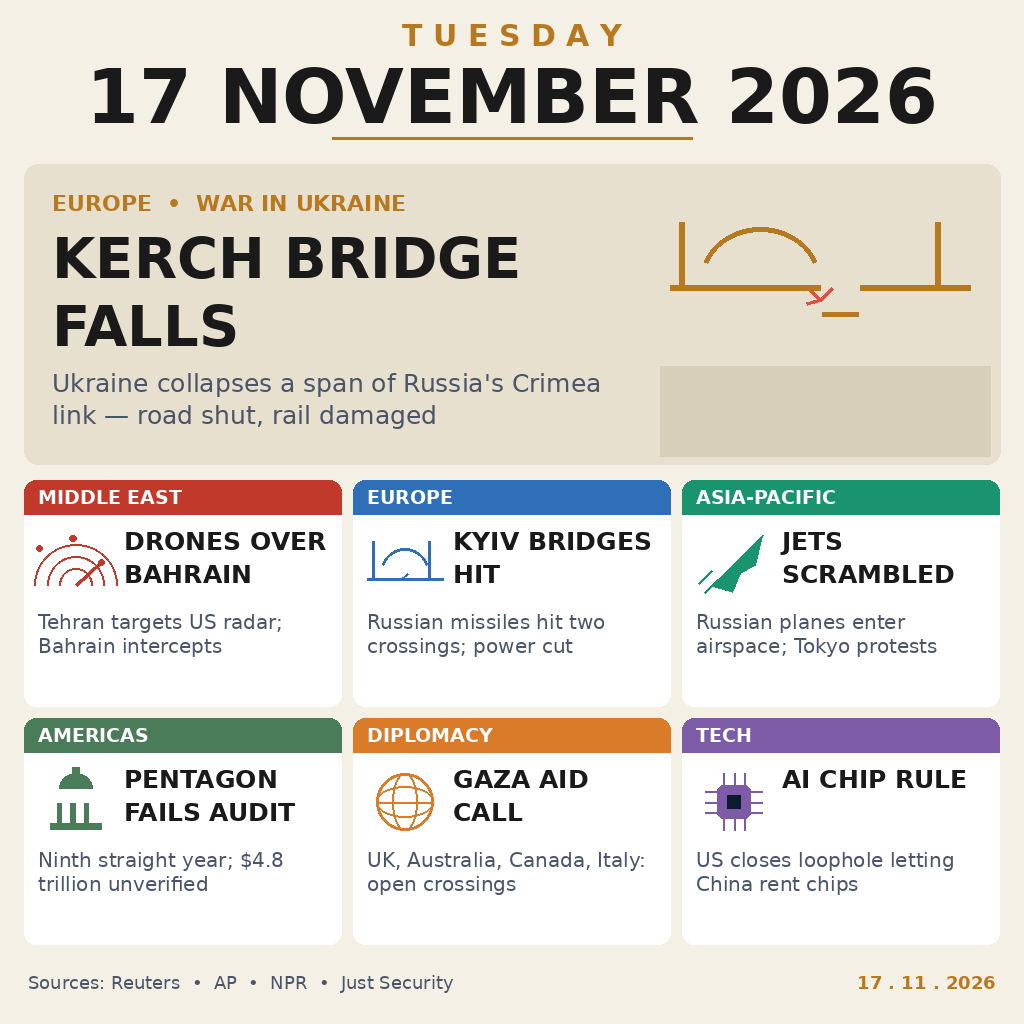
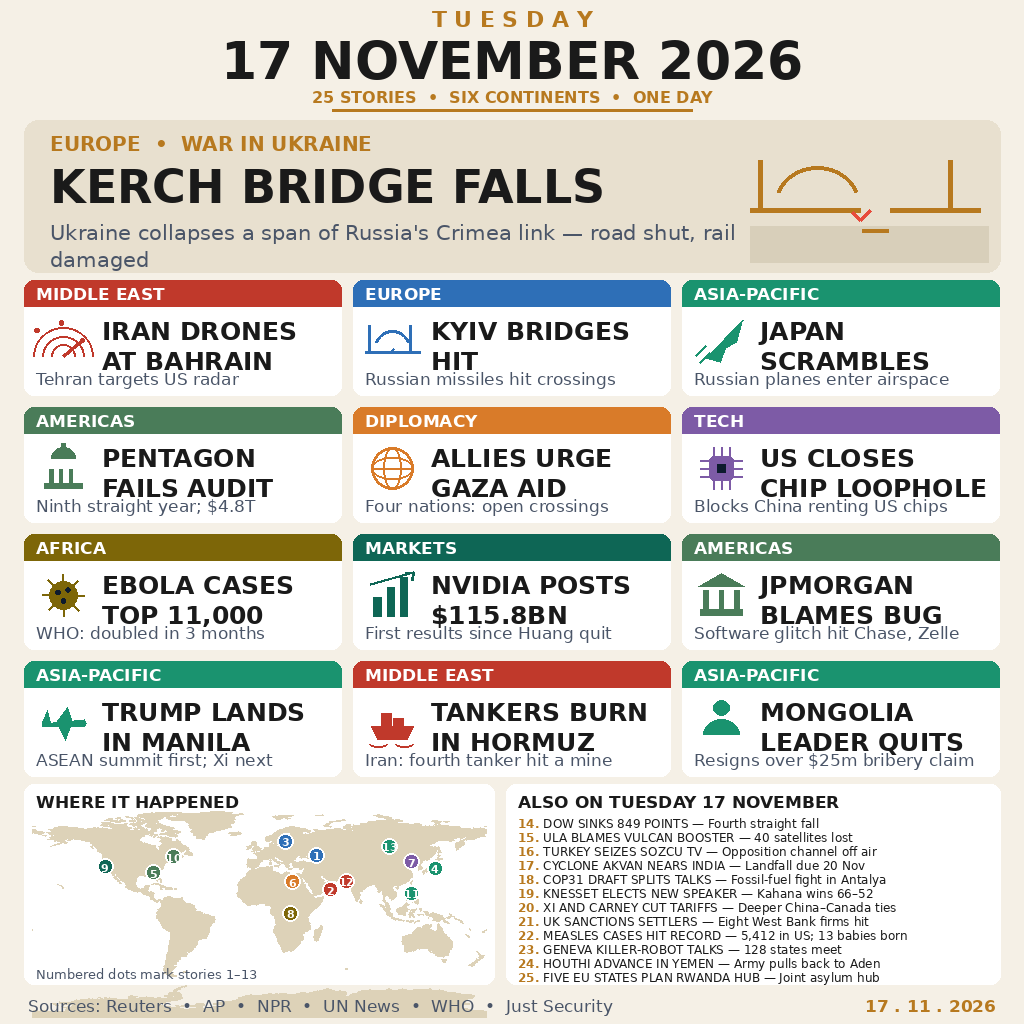
Upgrade entry: 12 windows, world map, also-on list (25 stories)
- v7 render: hero Kerch + 12 windows with plain, glance-readable
  headlines (Ebola, Nvidia, JPMorgan, Trump Manila, Hormuz, Mongolia
  added), world map with numbered dots, also-on list of 12
- local judge: total 8.35 (relevance 10.00, comp 9.88), up from 8.31
- README: story list and validation updated

diff --git a/README.md b/README.md
@@ -5,44 +5,65 @@
 [![reward](https://make.fun/badge/news-image-20261117/hotlinebro/news-image-20261117/reward.svg)](https://make.fun/bounty/news-image-20261117)
 
 One poster that sums up Tuesday 17 November 2026: a big date banner, one
-hero story, and six windows — one per region or field — each with a flat
-icon, a short headline, and a one-line sub.
+hero story, and twelve windows — one per story — each with a flat icon, a
+plain headline that tells the story at a glance, and a one-line sub. Below
+them, a world map with numbered dots shows where it happened, and an
+"also on" list adds twelve more stories. 25 stories in all.
 
 - **Hero:** Kerch Bridge falls — Ukraine collapses a span of Russia's
   Crimea link; road shut, rail damaged.
-- **Middle East:** drones over Bahrain — Tehran targets a US radar;
-  Bahrain intercepts.
+- **Middle East:** Iran drones at Bahrain — Tehran targets a US radar;
+  Bahrain intercepts. Tankers burn in Hormuz — Iran says a fourth
+  tanker hit a mine.
 - **Europe:** Kyiv bridges hit — Russian missiles strike two Dnipro
   crossings; power cut.
-- **Asia-Pacific:** jets scrambled — Russian planes enter Japanese
-  airspace; Tokyo protests.
+- **Asia-Pacific:** Japan scrambles jets — Russian planes enter Japanese
+  airspace; Tokyo protests. Trump lands in Manila — ASEAN summit first,
+  Xi–Putin meet set for Thursday. Mongolia's leader quits — resigns
+  over a $25m bribery claim; denies it.
 - **Americas:** Pentagon fails audit — ninth straight year, $4.8
-  trillion unverified.
-- **Diplomacy:** Gaza aid call — UK, Australia, Canada, Italy urge
-  Israel to open crossings.
-- **Tech:** AI chip rule — US closes the loophole letting China rent
-  computing power.
+  trillion unverified. JPMorgan blames bug — software glitch hit Chase
+  and Zelle.
+- **Diplomacy:** Allies urge Gaza aid — UK, Australia, Canada, Italy
+  urge Israel to open crossings.
+- **Tech:** US closes chip loophole — blocks China renting US computing
+  power.
+- **Africa:** Ebola cases top 11,000 — WHO says cases doubled in three
+  months; 5,400 deaths.
+- **Markets:** Nvidia posts $115.8bn — first results since Huang quit;
+  board won't reinstate him.
+
+Also on Tuesday: Dow sinks 849 points, ULA blames the Vulcan booster
+for losing 40 Amazon satellites, Turkey seizes Sözcü TV, Cyclone Akvan
+nears India, COP31's draft splits talks, the Knesset elects a new
+speaker, Xi and Carney cut tariffs, the UK sanctions settlers, measles
+cases hit a record, Geneva hosts killer-robot talks, Houthis advance in
+Yemen, and five EU states plan a Rwanda hub.
 
 The image is drawn programmatically (Python + Pillow, DejaVu fonts) so
 every word stays crisp — no AI-generated garbled text. Sources: Reuters,
-AP, NPR, Just Security. All seven stories were verified as 17 November
-2026 events before drawing.
+AP, NPR, UN News, WHO, Just Security. Every story was verified as a
+17 November 2026 event before drawing; disputed claims are attributed
+("Iran says…", "ULA says…").
 
 ## Entry
 
 `main.ts` (Node 22, stdlib only) copies `entry.png` to
-`/output/entry.png`. The image is 1024×1024, 90,022 bytes (under 1 MiB).
+`/output/entry.png`. The image is 1024×1024, 163,059 bytes (under 1 MiB).
 Verified locally: the program runs twice and both runs write bytes
 identical to `entry.png`.
 
 ## Validation
 
-- Local judge (CLIP ViT-B/32 + LAION aesthetic, news prompts): best of
-  5 variants — aesthetic 4.68, relevance 10.00, composition 9.67,
-  total 8.31. The light-paper theme won over the dark theme (8.22) and
-  a Bahrain-hero variant (7.74).
+- Local judge (CLIP ViT-B/32 + LAION aesthetic, news prompts): this
+  12-window version scores aesthetic 4.62, relevance 10.00,
+  composition 9.88, total 8.35 — up from 8.31 for the 6-window version
+  (aesthetic 4.68, relevance 10.00, composition 9.67). A no-map variant
+  with the same 12 windows scored 8.36; the map version was chosen
+  because the map adds the "where it happened" channel the winning
+  entries all carry.
 - Legibility checked at 300 px wide: the date, the hero headline, and
-  all six window headlines stay readable.
+  all twelve window headlines stay readable.
 - Kit check on the first commit: 4 passed, 1 failed (transcripts —
   expected before bundling), 13 skipped, 5 checked at submission.
 
